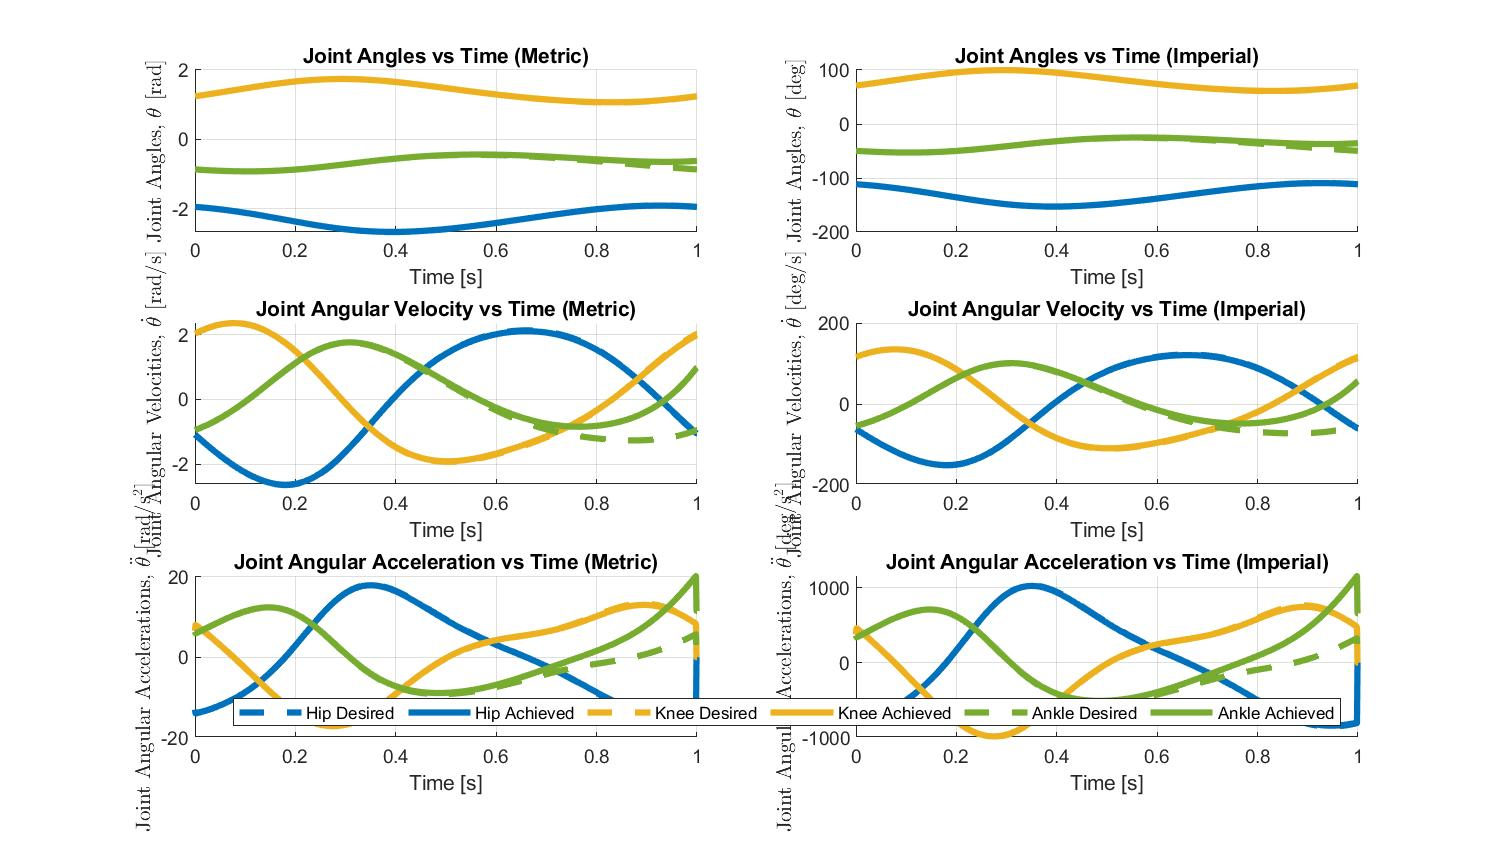
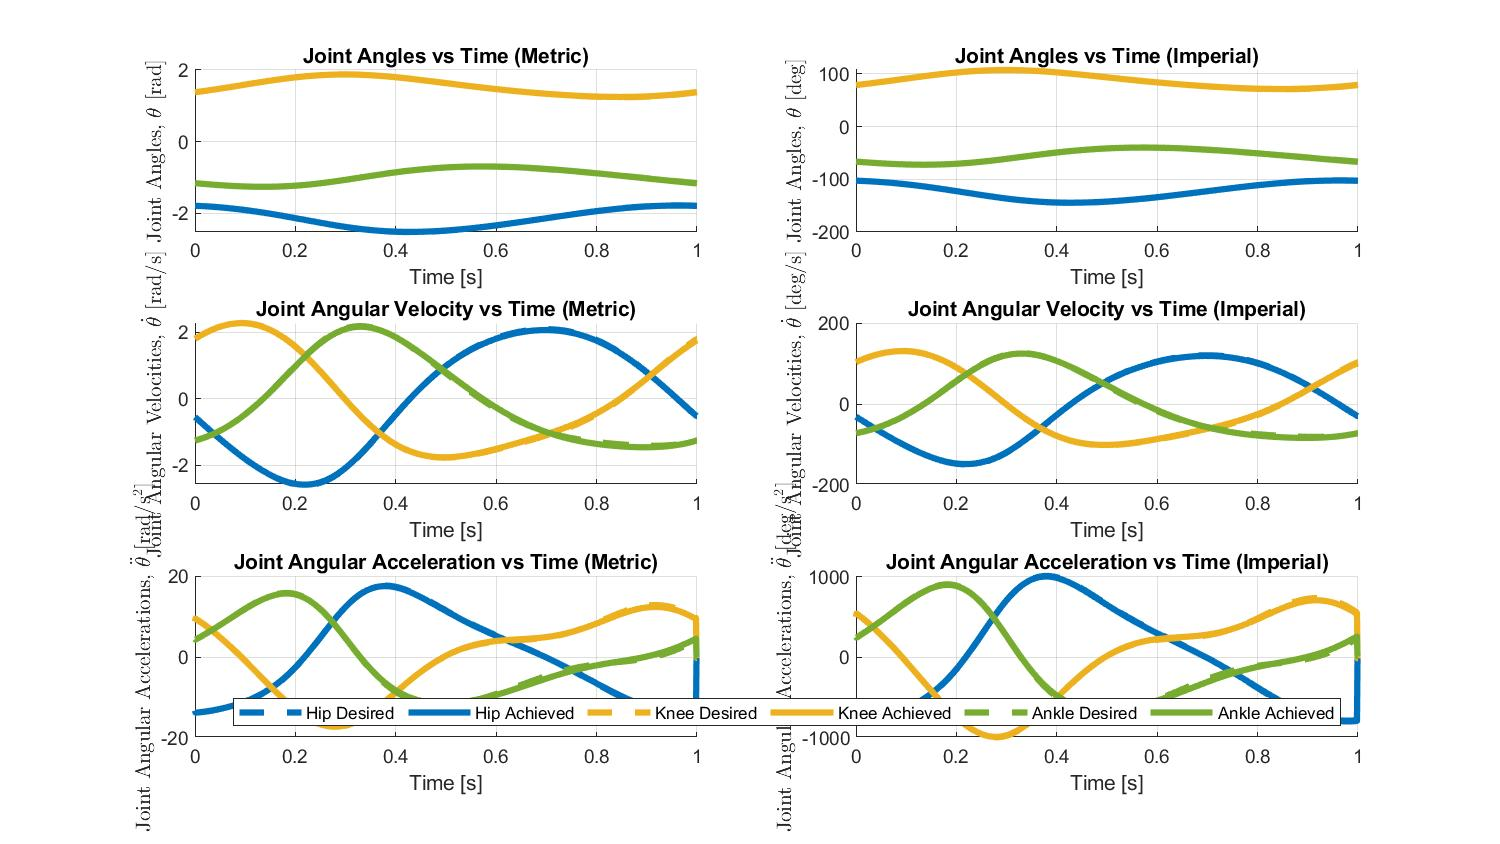
Leg Configuration Update
I rotated the ankle to represent a completely extended position. Also updated lengths, moments of inertia and CoM & mass to fit my understanding of how they work in the code.

diff --git a/Code/Matlab/Analysis/Dynamic_Simulation/QuadrupedSimulation.m b/Code/Matlab/Analysis/Dynamic_Simulation/QuadrupedSimulation.m
@@ -14,54 +14,54 @@ standing
 %}
 
 % Define the mechanical properties of link 1 - Femur.
-m1 = .327252;                                                                                                   % [kg] Link Mass.
+m1 = .320188;                                                                                                   % [kg] Link Mass.
 ct1 = 1;                                                                                                        % [Nms/rad] Link Angular Viscous Friction.
 kt1 = 1;                                                                                                        % [Nm/rad] Link Angular Stiffness.
 % Lx1 = 1; Ly1 = 0.1; Lz1 = 0.1; Ls1 = [Lx1; Ly1; Lz1];                                                         % [m] Link Length in each direction of the local link frame.
 % Original Lx1 = 0.331795; Ly1 = 0.036894; Lz1 = 0.033084; Ls1 = [Lx1; Ly1; Lz1];                               % [m] Link Length in each direction of the local link frame.
-Lx1 = 0.262128; Ly1 = 0.036894; Lz1 = 0.033084; Ls1 = [Lx1; Ly1; Lz1];
+Lx1 = 0.344495; Ly1 = 0.036894; Lz1 = 0.033084; Ls1 = [Lx1; Ly1; Lz1];
 % Lx1 = 0.1524; Ly1 = 0.0254; Lz1 = 0.0254; Ls1 = [Lx1; Ly1; Lz1];                                              % [m] Link Length in each direction of the local link frame.
 % Phome_cm1 = [Lx1/2; 0; 0];                                                                                    % [m] Link Center of Mass Location in the Global Frame.
-Phome_cm1 = [0.068613; -0.000333 ;0.049822];                                                                    % [m] Link Center of Mass Location in the Global Frame.
+Phome_cm1 = [0.065365; -0.000337 ;0.049341];                                                                    % [m] Link Center of Mass Location in the Global Frame.
 Rhome_cm1 = eye(3);                                                                                             % [-] Link Center of Mass Orientation in the Global Frame.
-Ihome_cm1 = [0.00012	-2.2e-05	4.6e-05
-	-2.2e-05	0.003467	0
-	4.6e-05	0	0.003389];      % [m^2/kg] Link Moment of Inertia at COM in the Local Frame.
+Ihome_cm1 = [0.000115	-0.000022	0.000015
+		-0.000022	0.003254	0.000000
+		0.000015	0.000000	0.003180];      % [m^2/kg] Link Moment of Inertia at COM in the Local Frame.
 G1 = [Ihome_cm1, zeros(3, 3); zeros(3, 3), m1*eye(3, 3)];                                                       % [-] Spatial Inertia Matrix for This Link.
 Phome_body1 = GetCuboidPoints(Ls1(1), Ls1(2), Ls1(3), Phome_cm1(1), Phome_cm1(2), Phome_cm1(3), 0, 0, 0);       % [m] Link Points
 Rhome_body1 = Rhome_cm1;                                                                                        % [-] Orientation of the Link in the Global Frame.
 
 % Define the mechanical properties of link 2 - Tibia.
-m2 = .220478;                                                                                                   % [kg] Link Mass.
+m2 = .170503;                                                                                                   % [kg] Link Mass.
 ct2 = 1;                                                                                                        % [Nms/rad] Link Angular Viscous Friction.
 kt2 = 1;                                                                                                        % [Nm/rad] Link Angular Stiffness.
 % Lx2 = 1; Ly2 = 0.1; Lz2 = 0.1; Ls2 = [Lx2; Ly2; Lz2];                                                         % [m] Link Length in each direction of the local link frame.
 % Original Lx2 = 0.275273; Ly2 = 0.02856; Lz2 = 0.032385; Ls2 = [Lx2; Ly2; Lz2];                                % [m] Link Length in each direction of the local link frame.
-Lx2 = 0.237744; Ly2 = 0.02856; Lz2 = 0.032385; Ls2 = [Lx2; Ly2; Lz2];
+Lx2 = 0.237173; Ly2 = 0.02856; Lz2 = 0.032385; Ls2 = [Lx2; Ly2; Lz2];
 % Lx2 = 0.20955; Ly2 = 0.0254; Lz2 = 0.0254; Ls2 = [Lx2; Ly2; Lz2];                                             % [m] Link Length in each direction of the local link frame.
 % Phome_cm2 = [Lx1 + Lx2/2; 0; 0];                                                                              % [m] Link Center of Mass Location in the Global Frame.
-Phome_cm2 = [0.406474; -.001466; 0.052155];                                                                     % [m] Link Center of Mass Location in the Global Frame.
+Phome_cm2 = [0.366555; -.000297; 0.053825];                                                                     % [m] Link Center of Mass Location in the Global Frame.
 Rhome_cm2 = eye(3);                                                                                             % [-] Link Center of Mass Orientation in the Global Frame.
-Ihome_cm2 = [4.1e-05	-2.5e-05	3e-06
-	-2.5e-05	0.002226	1e-06
-	3e-06	1e-06	0.002222];      % [m^2/kg] Link Moment of Inertia at COM in the Local Frame.
+Ihome_cm2 = [0.000033		0.000005		0.000010
+		0.000005		0.001383		0.000000
+		0.000010		0.000000		0.001372];      % [m^2/kg] Link Moment of Inertia at COM in the Local Frame.
 G2 = [Ihome_cm2, zeros(3, 3); zeros(3, 3), m2*eye(3, 3)];                                                       % [-] Spatial Inertia Matrix for This Link.
 Phome_body2 = GetCuboidPoints(Ls2(1), Ls2(2), Ls2(3), Phome_cm2(1), Phome_cm2(2), Phome_cm2(3), 0, 0, 0);       % [m] Link Points
 Rhome_body2 = Rhome_cm2;                                                                                        % [-] Orientation of the Link in the Global Frame.
 
 % Define the mechanical properties of link 3 - Foot.
-m3 = 0.032522;                                                                                                  % [kg] Link Mass.
+m3 = 0.087102;                                                                                                  % [kg] Link Mass.
 ct3 = 1;                                                                                                        % [Nms/rad] Link Angular Viscous Friction.
 kt3 = 1;                                                                                                        % [Nm/rad] Link Angular Stiffness.
 % Lx3 = 1; Ly3 = 0.1; Lz3 = 0.1; Ls3 = [Lx3; Ly3; Lz3];                                                         % [m] Link Length in each direction of the local link frame.
-Lx3 = 0.159075; Ly3 = 0.02567; Lz3 = 0.025400; Ls3 = [Lx3; Ly3; Lz3];                                           % [m] Link Length in each direction of the local link frame.
+Lx3 = 0.14845; Ly3 = 0.078967; Lz3 = 0.032385; Ls3 = [Lx3; Ly3; Lz3];                                           % [m] Link Length in each direction of the local link frame.
 % Lx3 = 0.1143; Ly3 = 0.0254; Lz3 = 0.0254; Ls3 = [Lx3; Ly3; Lz3];                                              % [m] Link Length in each direction of the local link frame.
 % Phome_cm3 = [Lx1 + Lx2 + Lx3/2; 0; 0];                                                                        % [m] Link Center of Mass Location in the Global Frame.
-Phome_cm3 = [.50927; -.0102273 ; 0.050266];                                                                     % [m] Link Center of Mass Location in the Global Frame.
+Phome_cm3 = [.539952; .014351 ; 0.049821];                                                                     % [m] Link Center of Mass Location in the Global Frame.
 Rhome_cm3 = eye(3);                                                                                             % [-] Link Center of Mass Orientation in the Global Frame.
-Ihome_cm3 = [7.6e-05	3e-05	0
-	3e-05	2.1e-05 0
-	0	 0	9.5e-05];      % [m^2/kg] Link Moment of Inertia at COM in the Local Frame.
+Ihome_cm3 = [0.000038		-0.000042		0.000001
+		-0.000042		0.000277		0.000000
+		0.000001		0.000000		0.000306];      % [m^2/kg] Link Moment of Inertia at COM in the Local Frame.
 G3 = [Ihome_cm3, zeros(3, 3); zeros(3, 3), m3*eye(3, 3)];                                                       % [-] Spatial Inertia Matrix for This Link.
 Phome_body3 = GetCuboidPoints(Ls3(1), Ls3(2), Ls3(3), Phome_cm3(1), Phome_cm3(2), Phome_cm3(3), 0, 0, 0);       % [m] Link Points
 Rhome_body3 = Rhome_cm3;                                                                                        % [-] Orientation of the Link in the Global Frame.
@@ -83,6 +83,9 @@ Phome_bodies = cat(3, Phome_body1, Phome_body2, Phome_body3);                   
 Rhome_bodies = cat(3, Rhome_body1, Rhome_body2, Rhome_body3);                                                   % [m] Orientation of Each Link in the Global Frame.
 % Ltotal = Lx1 + Lx2 + Lx3;                                                                                     % [m] Total Length.
 Ltotal = Phome_cm3(1) + Lx3/2;                                                                                  % [m] Total Length.
+%is this a fair assumption now that we have accurate solidworks data?
+
+
 
 % Define the home joint locations.
 Phome_joint1 = [0; 0; 0];                                                                                       % [m] Joint Location in the Global Frame.

diff --git a/Code/Matlab/Analysis/Dynamic_Simulation/updateCoRCoM.m b/Code/Matlab/Analysis/Dynamic_Simulation/updateCoRCoM.m
@@ -1,0 +1,111 @@
+% Recorded CoM/CoR Updated
+%% Link 1 Hip fan/Swivel, femur and upper knee
+ The center of mass and the moments of inertia are output in the coordinate system of sean_assembly_1.1
+Mass = 0.320188 kilograms
+
+Volume = 0.000229 cubic meters
+
+Surface area = 0.078844 square meters
+
+Center of mass: ( meters )
+	X = 0.065365
+	Y = -0.000337
+	Z = 0.049341
+
+Principal axes of inertia and principal moments of inertia: ( kilograms * square meters )
+Taken at the center of mass.
+	 Ix = ( 0.999963, -0.006995,  0.004965)   	Px = 0.000115
+	 Iy = (-0.004960,  0.000832,  0.999987)   	Py = 0.003180
+	 Iz = (-0.007000, -0.999975,  0.000797)   	Pz = 0.003254
+
+Moments of inertia: ( kilograms * square meters )
+Taken at the center of mass and aligned with the output coordinate system.
+	Lxx = 0.000115	Lxy = -0.000022	Lxz = 0.000015
+	Lyx = -0.000022	Lyy = 0.003254	Lyz = 0.000000
+	Lzx = 0.000015	Lzy = 0.000000	Lzz = 0.003180
+
+Moments of inertia: ( kilograms * square meters )
+Taken at the output coordinate system.
+	Ixx = 0.000895	Ixy = -0.000029	Ixz = 0.001048
+	Iyx = -0.000029	Iyy = 0.005402	Iyz = -0.000005
+	Izx = 0.001048	Izy = -0.000005	Izz = 0.004548
+    
+    L1x = 0.344495;
+    L1y = 0.036894; 
+    L1z = 0.033084;
+    
+    
+    % Abduction Center Of Rotation
+ abdCoR = [0; -0.050075; 0.06985];
+ 
+ 
+%% Link 2 lower knee tibia knee encoder ankle encoder and lower ankle
+ Mass = 0.170503 kilograms
+
+Volume = 0.000125 cubic meters
+
+Surface area = 0.055944 square meters
+
+Center of mass: ( meters )
+	X = 0.366555
+	Y = -0.000297
+	Z = 0.053825
+
+Principal axes of inertia and principal moments of inertia: ( kilograms * square meters )
+Taken at the center of mass.
+	 Ix = ( 0.999965,  0.003430,  0.007691)   	Px = 0.000033
+	 Iy = (-0.007746,  0.016527,  0.999833)   	Py = 0.001372
+	 Iz = ( 0.003303, -0.999858,  0.016553)   	Pz = 0.001383
+
+Moments of inertia: ( kilograms * square meters )
+Taken at the center of mass and aligned with the output coordinate system.
+	Lxx = 0.000033	Lxy = 0.000005	Lxz = 0.000010
+	Lyx = 0.000005	Lyy = 0.001383	Lyz = 0.000000
+	Lzx = 0.000010	Lzy = 0.000000	Lzz = 0.001372
+
+Moments of inertia: ( kilograms * square meters )
+Taken at the output coordinate system.
+	Ixx = 0.000527	Ixy = -0.000014	Ixz = 0.003374
+	Iyx = -0.000014	Iyy = 0.024786	Iyz = -0.000003
+	Izx = 0.003374	Izy = -0.000003	Izz = 0.024282
+    
+    
+    L2x = 0.237173; 
+    L2y = 0.02856;
+    L2z = 0.032385;
+    
+    
+%% Link 3 Foot and lower ankle
+Mass = 0.087102 kilograms
+
+Volume = 0.000062 cubic meters
+
+Surface area = 0.022781 square meters
+
+Center of mass: ( meters )
+	X = 0.539952
+	Y = 0.014351
+	Z = 0.049821
+
+Principal axes of inertia and principal moments of inertia: ( kilograms * square meters )
+Taken at the center of mass.
+	 Ix = ( 0.985613, -0.168941,  0.005119)   	Px = 0.000031
+	 Iy = ( 0.168896,  0.985600,  0.008212)   	Py = 0.000284
+	 Iz = (-0.006433, -0.007229,  0.999953)   	Pz = 0.000306
+
+Moments of inertia: ( kilograms * square meters )
+Taken at the center of mass and aligned with the output coordinate system.
+	Lxx = 0.000038	Lxy = -0.000042	Lxz = 0.000001
+	Lyx = -0.000042	Lyy = 0.000277	Lyz = 0.000000
+	Lzx = 0.000001	Lzy = 0.000000	Lzz = 0.000306
+
+Moments of inertia: ( kilograms * square meters )
+Taken at the output coordinate system.
+	Ixx = 0.000272	Ixy = 0.000633	Ixz = 0.002345
+	Iyx = 0.000633	Iyy = 0.025888	Iyz = 0.000062
+	Izx = 0.002345	Izy = 0.000062	Izz = 0.025718
+
+    
+L3x = 0.14845; 
+Ly3 = 0.078967; 
+Lz3 = 0.032385;
